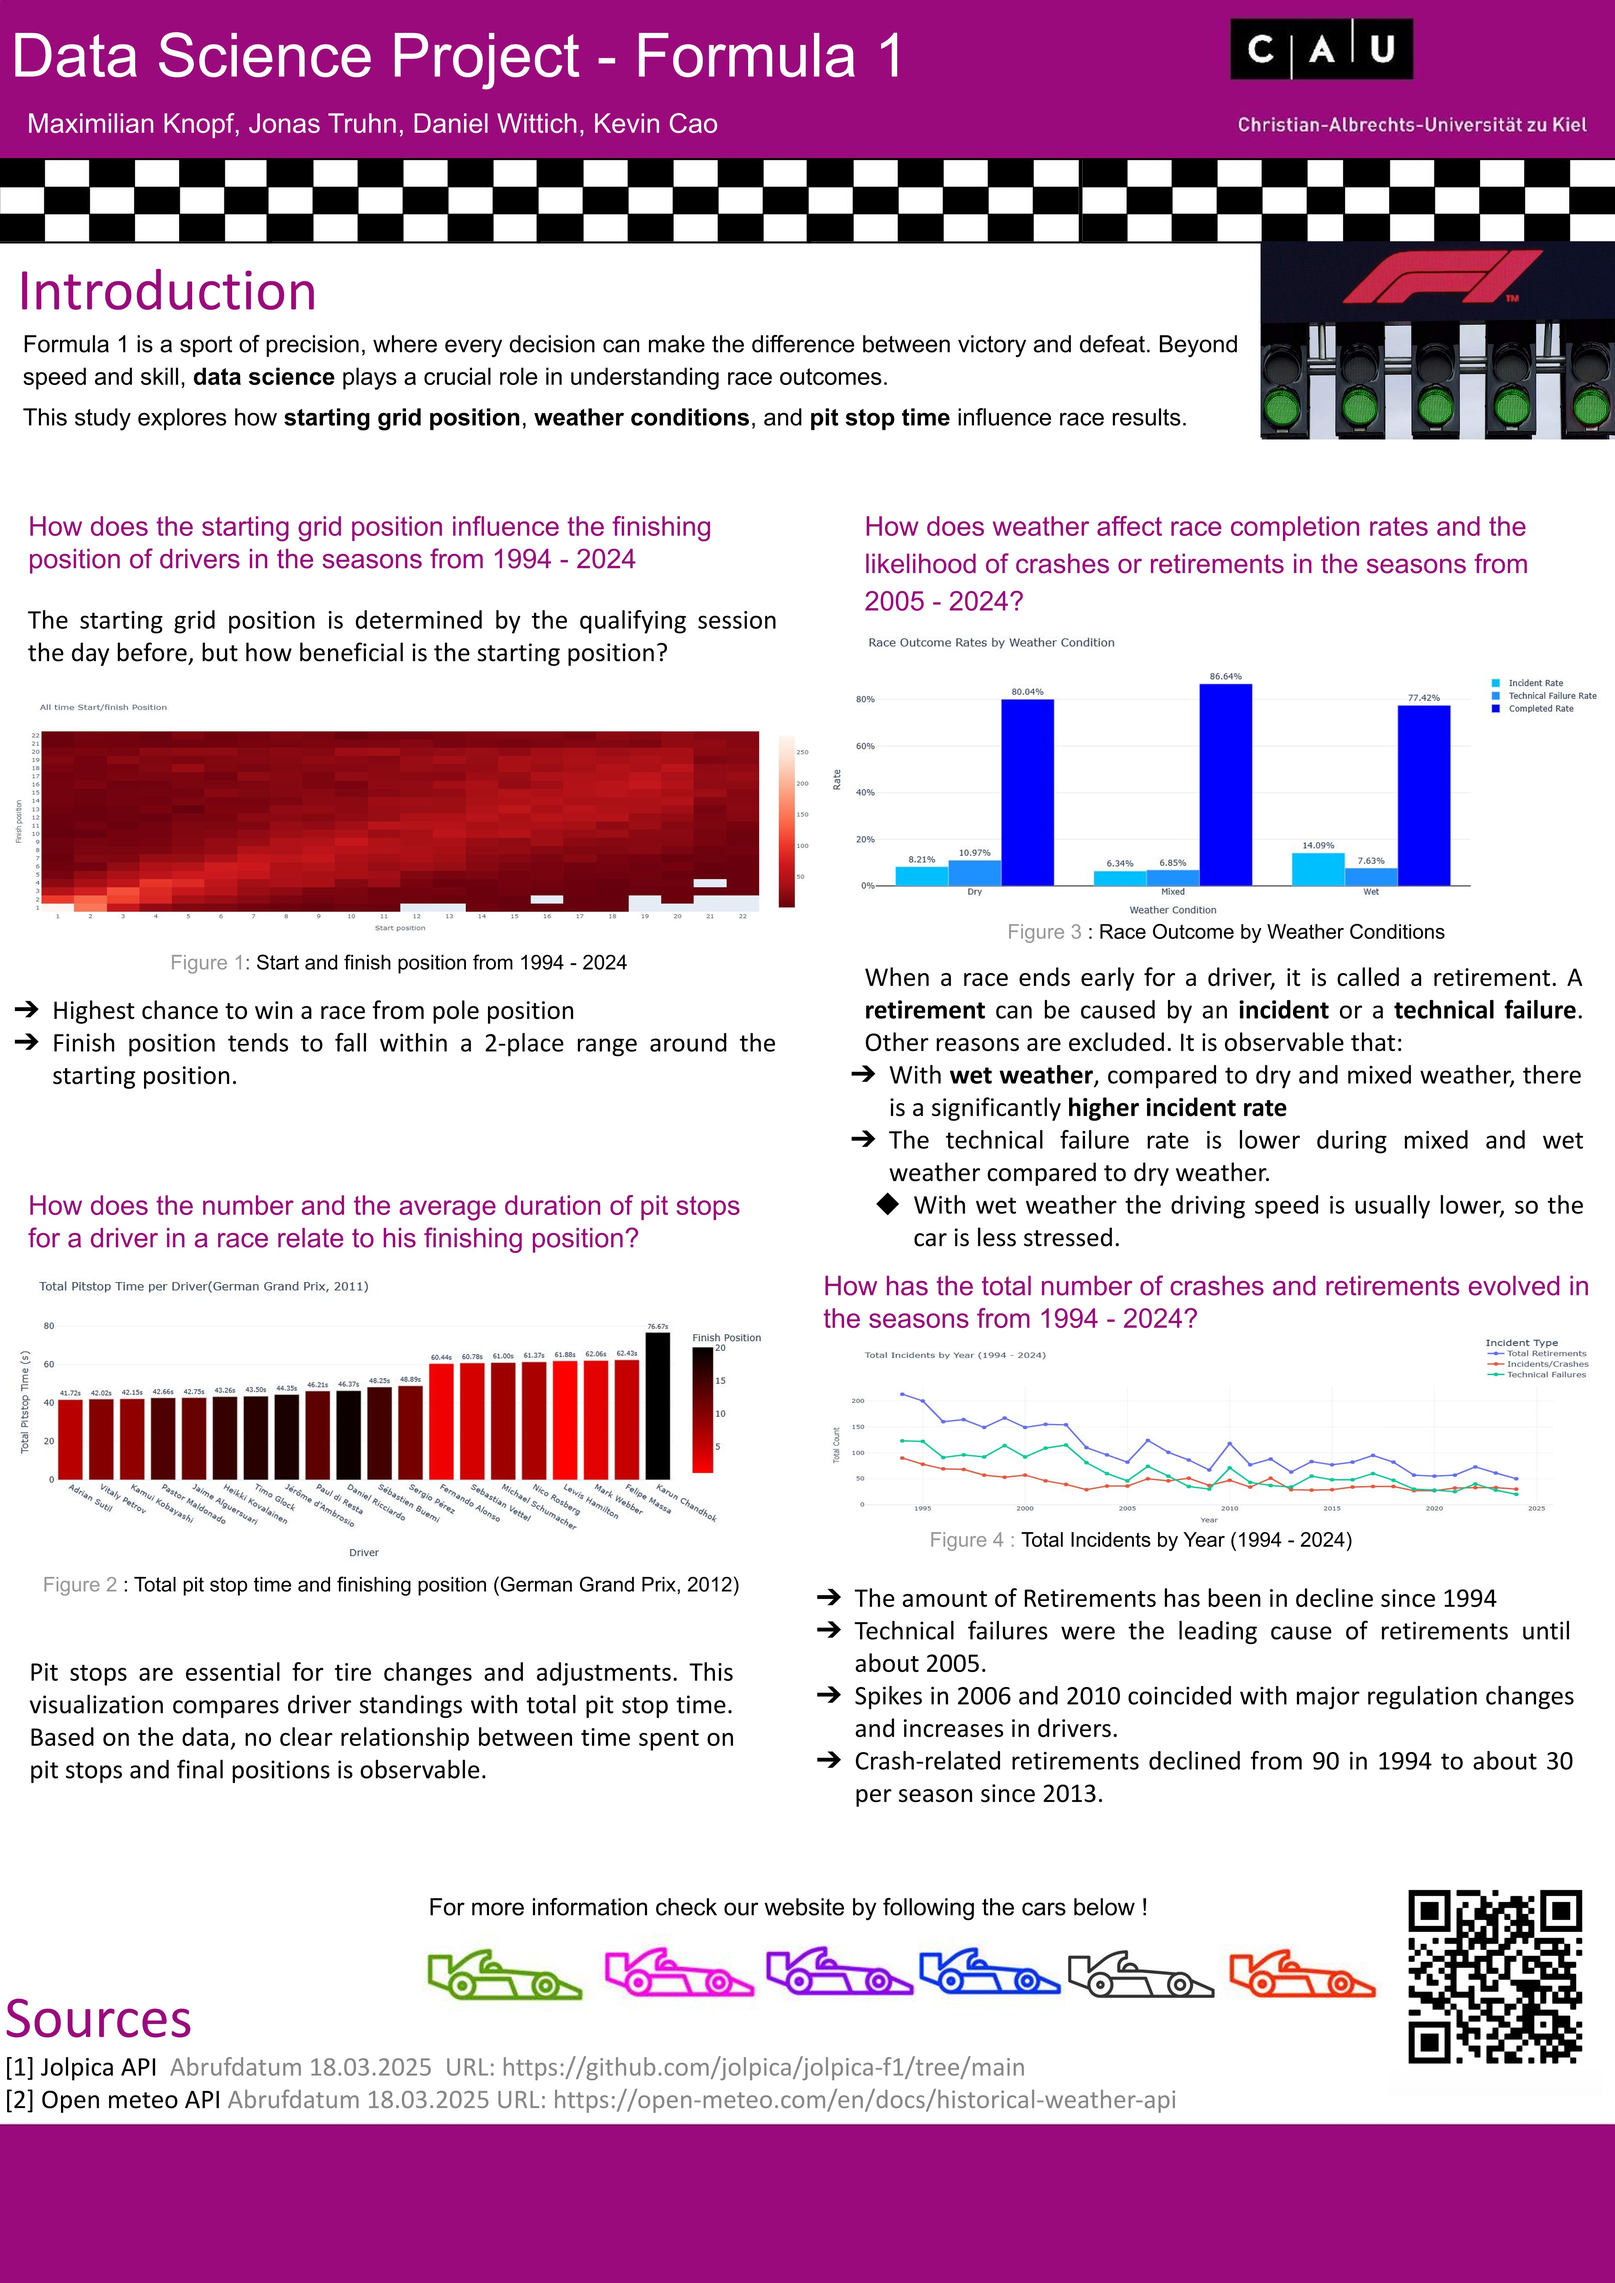
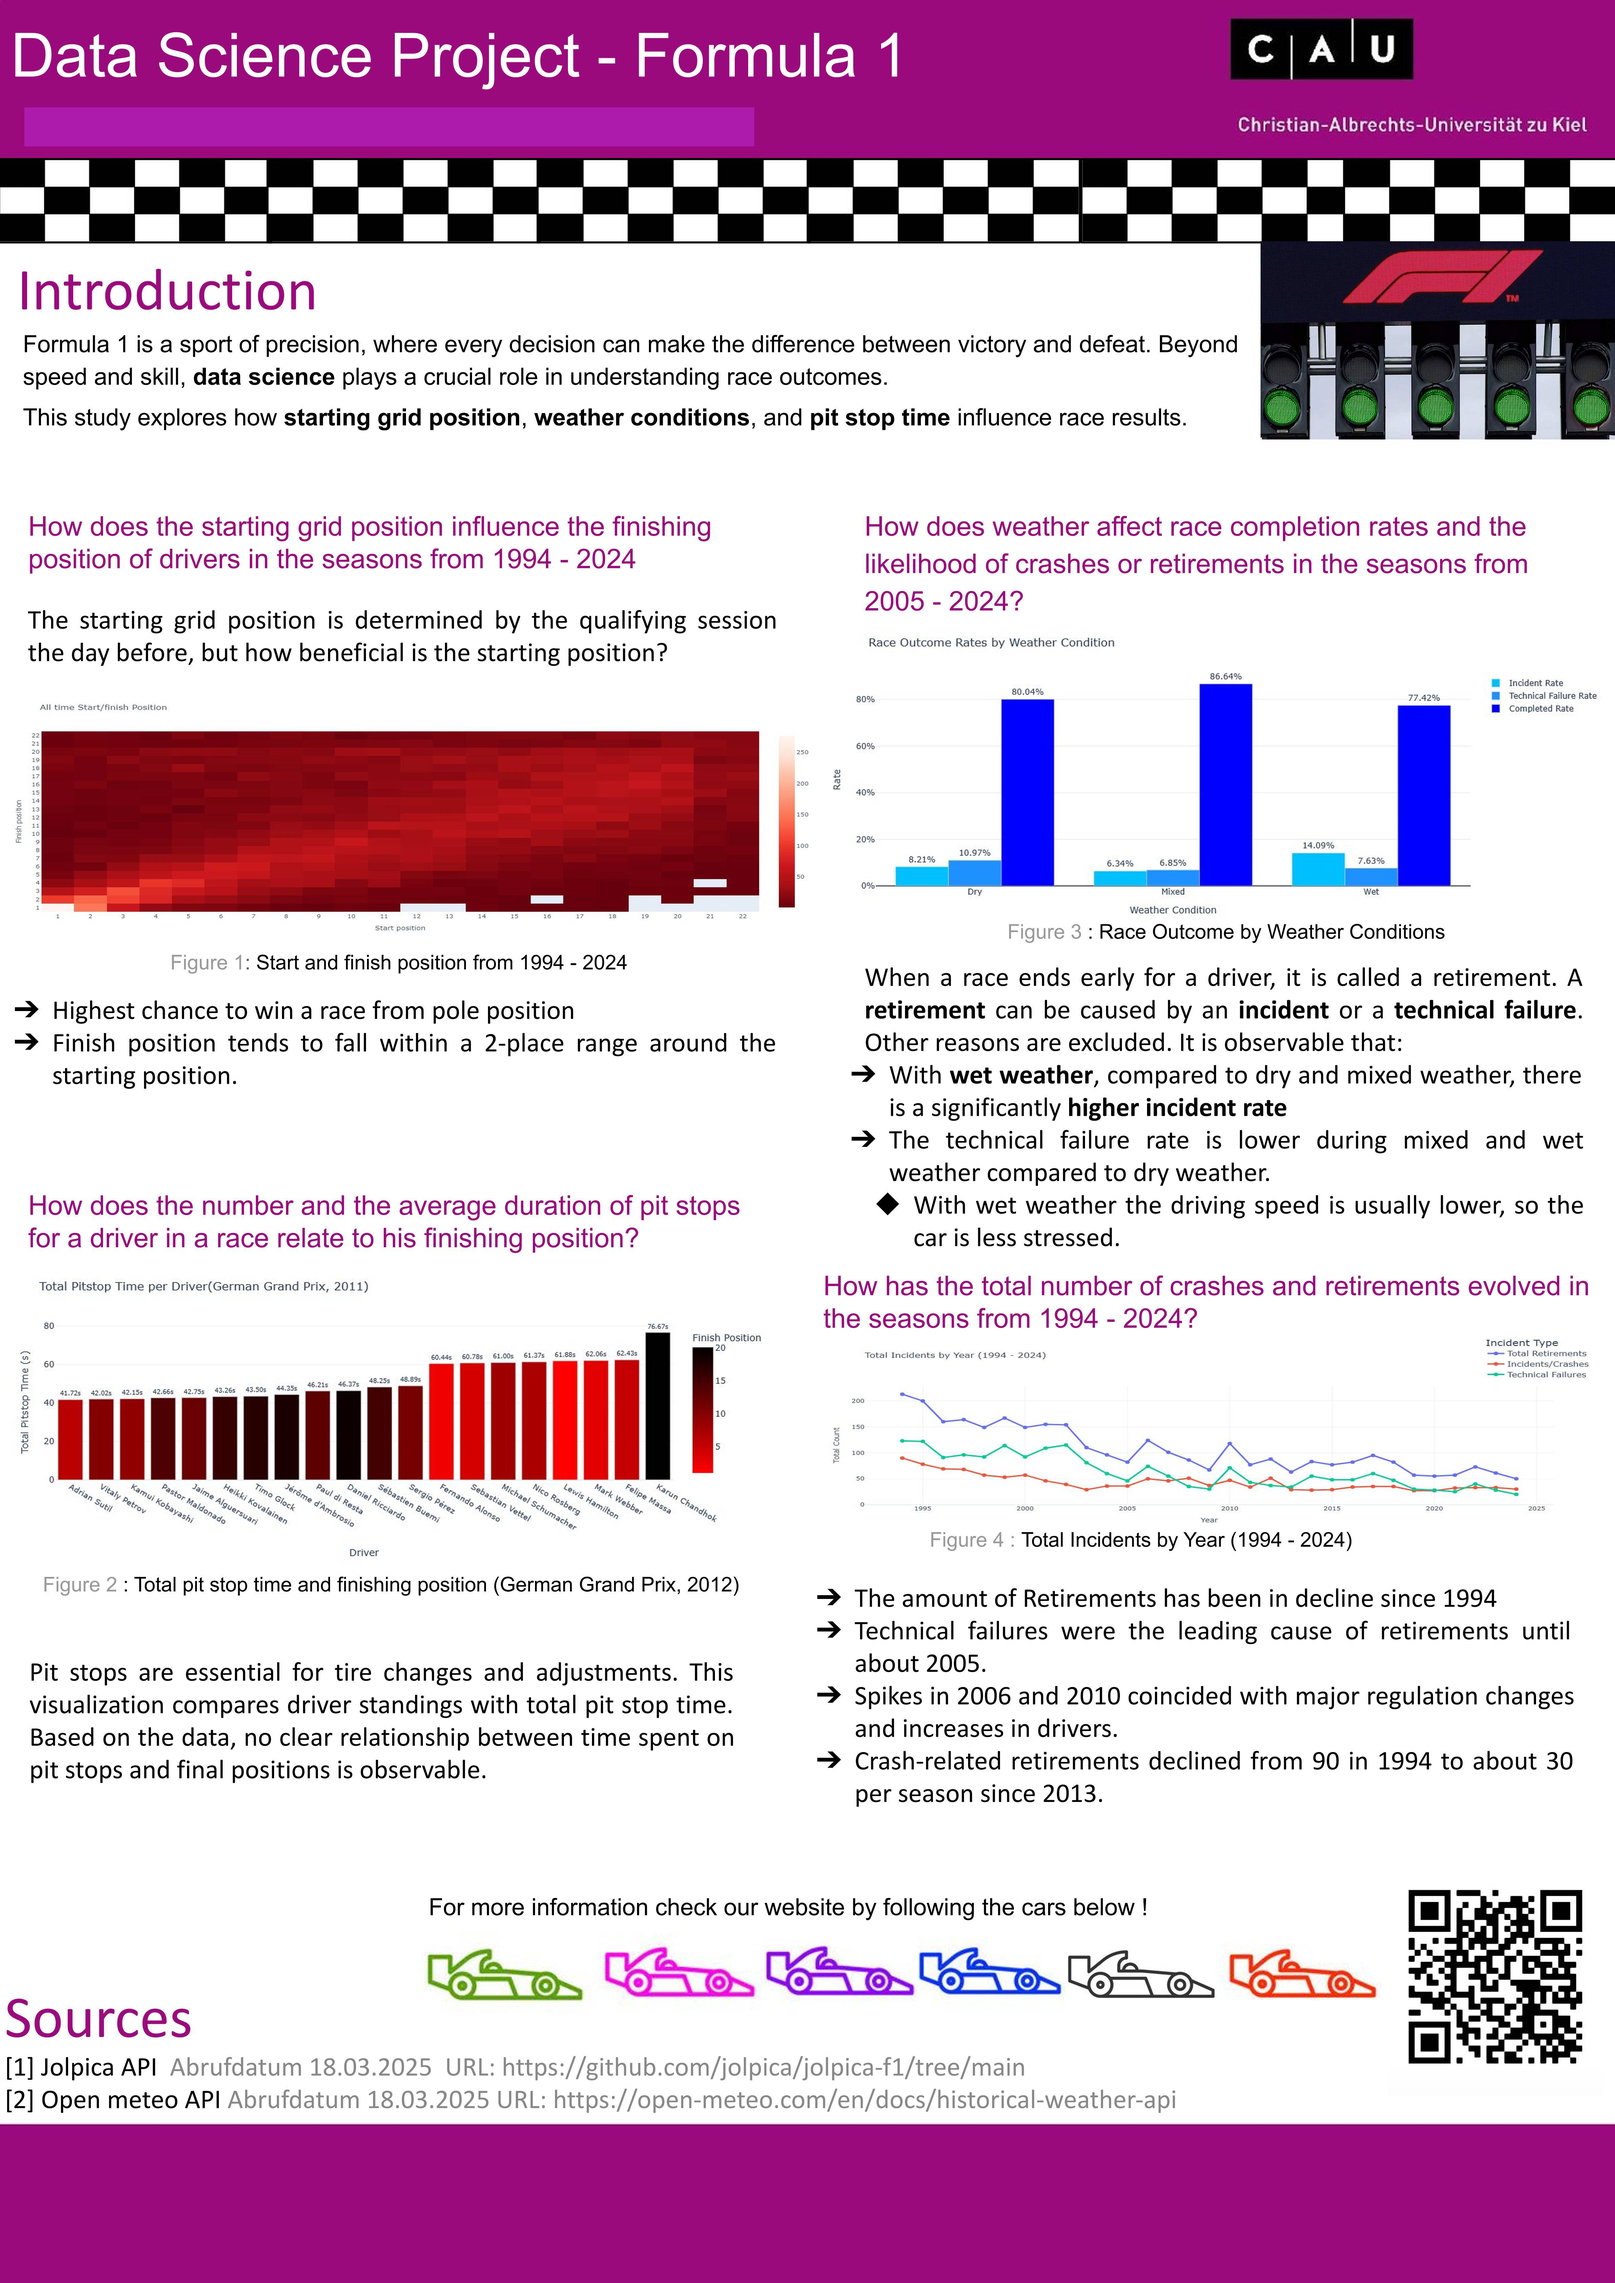
fix: redacted formula student names from poster

Changed region(s): [[0.0, 0.0312, 0.4658, 0.0623]]

diff --git a/index.html b/index.html
@@ -75,94 +75,6 @@
 
 
 
-    <section id="features">
-        <h1>Some top Projects of the <a class="link" href="html/WS23-24.html">Winter 2024</a></h1>
-        <div class="fea-base">
-            <div class="fea-box">
-                <i class="fas fa-solid fa-receipt"></i>
-                <h3>Canteens</h3>
-                <p>An analysis of food prices at canteens accross Germany.</p>
-            </div>
-            <div class="fea-box">
-                <i class="fas fa-solid fa-calculator"></i>
-                <h3>YouTube</h3>
-                <p>Are there relationships between YouTube Video topics and viewership?</p>
-            </div>
-            <div class="fea-box">
-                <i class="fas fa-solid fa-laptop-code"></i>
-                <h3>Citys</h3>
-                <p>Do logistical aspects of cities influence the happiness of its inhabitants?</p>
-            </div>
-            
-            <div class="fea-box">
-                <i class="fas fa-solid fa-laptop-code"></i>
-                <h3>Citys</h3>
-                <p>Do logistical aspects of cities influence the happiness of its inhabitants?</p>
-            </div>
-        <p>Explore all 11 projects of the semester  <a class="link" href="html/SS2023.html">here</a> </p>
-    </div>
-    </div>
-
-    <section id="features">
-        <h1>Some top Projects of the <a class="link" href="html/SS2023.html">Summer 2023</a></h1>
-        <div class="fea-base">
-            <div class="fea-box">
-                <i class="fas fa-solid fa-receipt"></i>
-                <h3>Canteens</h3>
-                <p>An analysis of food prices at canteens accross Germany.</p>
-            </div>
-            <div class="fea-box">
-                <i class="fas fa-solid fa-calculator"></i>
-                <h3>YouTube</h3>
-                <p>Are there relationships between YouTube Video topics and viewership?</p>
-            </div>
-            <div class="fea-box">
-                <i class="fas fa-solid fa-laptop-code"></i>
-                <h3>Citys</h3>
-                <p>Do logistical aspects of cities influence the happiness of its inhabitants?</p>
-            </div>
-            
-            <div class="fea-box">
-                <i class="fas fa-solid fa-laptop-code"></i>
-                <h3>Citys</h3>
-                <p>Do logistical aspects of cities influence the happiness of its inhabitants?</p>
-            </div>
-        <p>Explore all 11 projects of the semester  <a class="link" href="html/SS2023.html">here</a> </p>
-    </div>
-    </div>
-
-
-
-    <section id="features">
-        <h1>Some Top Projects of the <a class="link" href="html/WS22-23.html">Winter 2023</a></h1>
-        <div class="fea-base">
-            <div class="fea-box">
-                <i class="fas fa-solid fa-receipt"></i>
-                <h3>Canteens</h3>
-                <p>An analysis of food prices at canteens accross Germany.</p>
-            </div>
-            <div class="fea-box">
-                <i class="fas fa-solid fa-calculator"></i>
-                <h3>YouTube</h3>
-                <p>Are there relationships between YouTube Video topics and viewership?</p>
-            </div>
-            <div class="fea-box">
-                <i class="fas fa-solid fa-laptop-code"></i>
-                <h3>Citys</h3>
-                <p>Do logistical aspects of cities influence the happiness of its inhabitants?</p>
-            </div>
-            
-            <div class="fea-box">
-                <i class="fas fa-solid fa-laptop-code"></i>
-                <h3>Citys</h3>
-                <p>Do logistical aspects of cities influence the happiness of its inhabitants?</p>
-            </div>
-        <p>Explore all 11 projects of the semester  <a class="link" href="html/WS22-23.html">here</a> </p>
-    </div>
-    </div>
-
-
-
 
         <script>
             $('#menu-close').click(function () {

diff --git a/html/WS24-25.html b/html/WS24-25.html
@@ -43,15 +43,15 @@
     <section id="aufgaben-container">
         <div class="aufgaben">
             <div class="post">
-                <h3>Project: Kiel Channel</h3>
+                
+                <h3>Project: Prison Systems</h3>
                 <p>Read more about this project on the poster and website.</p>
                 <div id="rightImage">
-                    <a href="../images/posters/ws24-25/KielCanal_Poster_final.jpg" target="_blank"><img src="../images/posters/ws24-25/KielCanal_Poster_final.jpg" alt="Kiel Channel"></a>
-
+                    <a href="../images/posters/ws24-25/Prison_systems_backup.jpg" target="_blank"><img src="../images/posters/ws24-25/Prison_systems_backup.jpg" alt="Prison Systems"></a>
                 </div>
+                <a href="https://kilakoriginal.github.io/data-science-project-2025/" target="_blank" rel="noopener noreferrer">Check&nbsp;out&nbsp;the&nbsp;interactive&nbsp;website</a>
                 
-                <a>This&nbsp;Website&nbsp;is&nbsp;no&nbsp;longer&nbsp;online.</a>
-            </div>
+            </div>      
             <div class="post">
                 
                 <h3>Project: Aviation</h3>
@@ -95,7 +95,7 @@
             <div class="post">
                 
                 <h3>Project: Formula 1</h3>
-                <p>Read more about this project on the poster and website. Placeholder Poster until redacted.</p>
+                <p>Read more about this project on the poster and website.</p>
                 <div id="rightImage">
                     <a href="../images/posters/ws24-25/Poster_Formula_1.jpg" target="_blank"><img src="../images/posters/ws24-25/Poster_Formula_1.jpg" alt="Formula 1"></a>
                 </div>
@@ -103,15 +103,14 @@
 
             </div>            
             <div class="post">
-                
-                <h3>Project: Prison Systems</h3>
+                <h3>Project: Kiel Channel</h3>
                 <p>Read more about this project on the poster and website.</p>
                 <div id="rightImage">
-                    <a href="../images/posters/ws24-25/Prison_systems_backup.jpg" target="_blank"><img src="../images/posters/ws24-25/Prison_systems_backup.jpg" alt="Prison Systems"></a>
+                    <a href="../images/posters/ws24-25/KielCanal_Poster_final.jpg" target="_blank"><img src="../images/posters/ws24-25/KielCanal_Poster_final.jpg" alt="Kiel Channel"></a>
                 </div>
-                <a href="https://kilakoriginal.github.io/data-science-project-2025/" target="_blank" rel="noopener noreferrer">Check&nbsp;out&nbsp;the&nbsp;interactive&nbsp;website</a>
-                
-            </div>            
+                <a>This&nbsp;Website&nbsp;is&nbsp;no&nbsp;longer&nbsp;online.</a>
+            </div>
+            
             <div class="post">
                 
                 <h3>Project: Health & Weather </h3>
